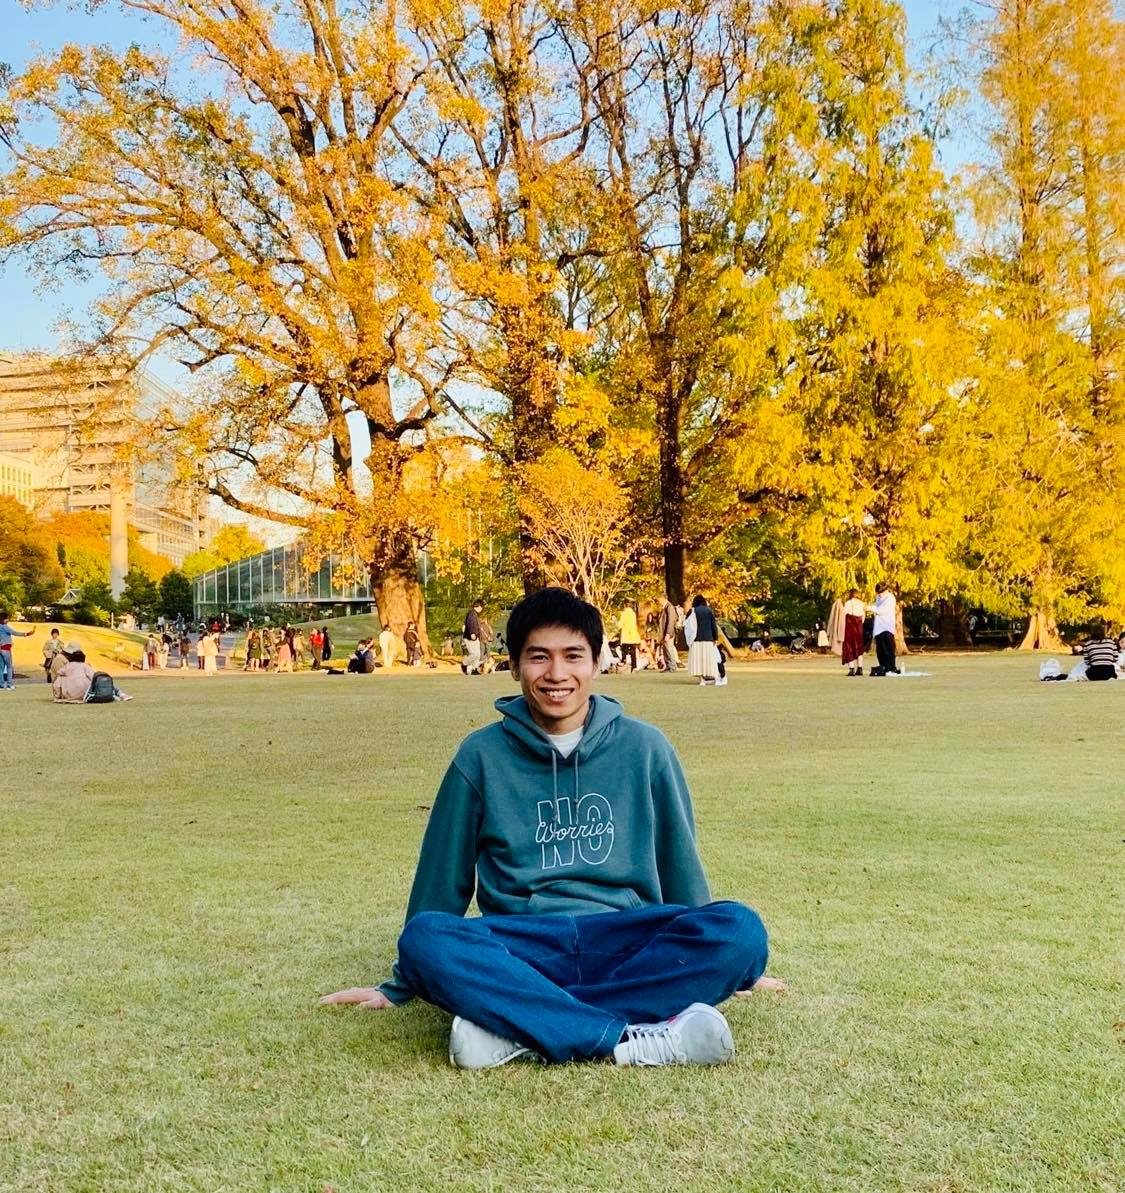
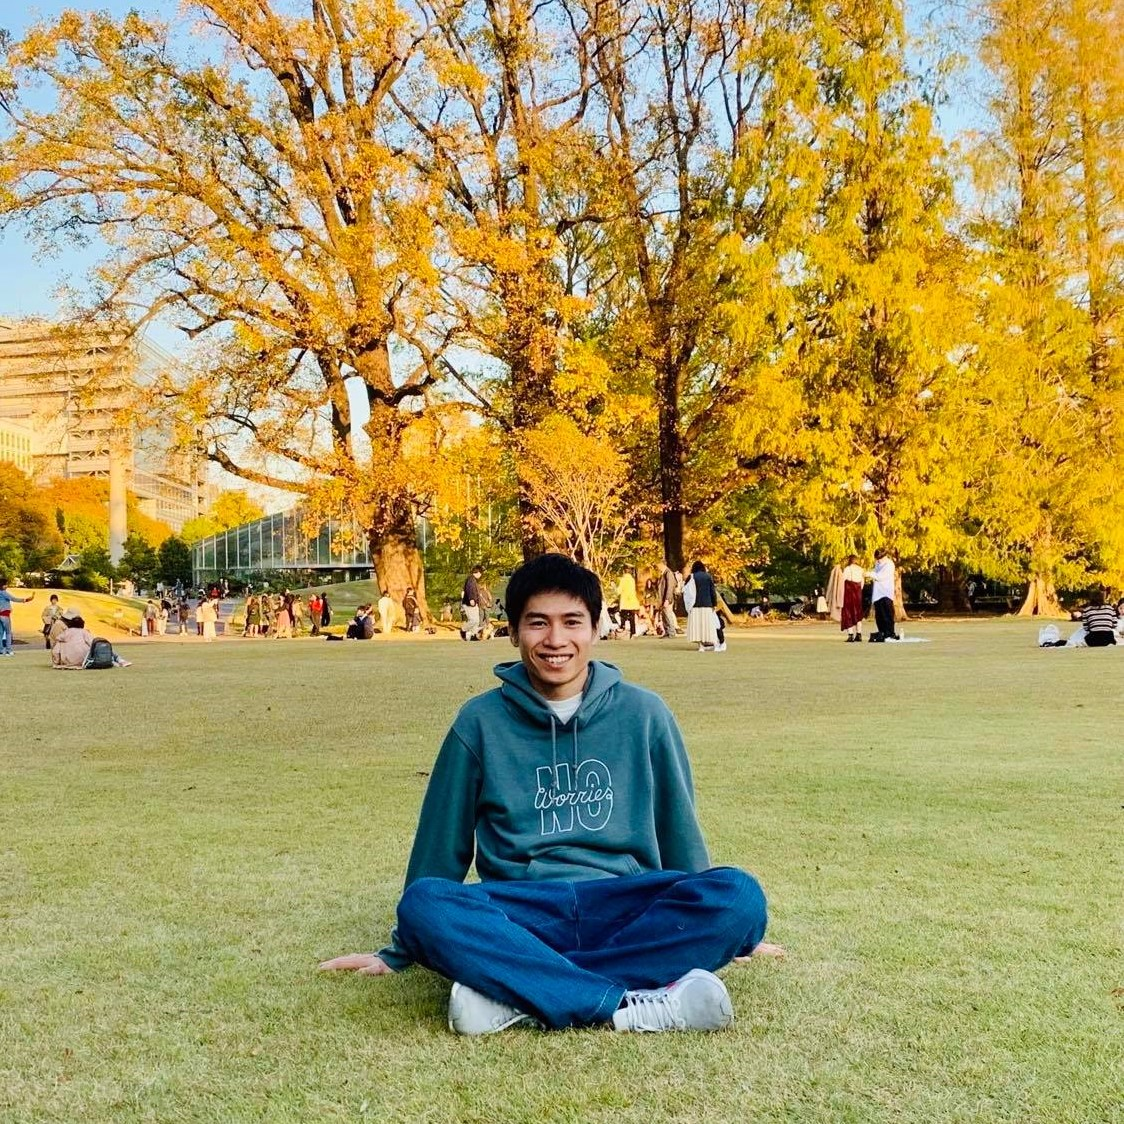
modified data ang Img in Card

diff --git a/src/data/ourTeam/AboutUs.js b/src/data/ourTeam/AboutUs.js
@@ -150,7 +150,7 @@ const AboutUsData = {
           alt: "yen",
         },
         description:
-          "郵政電信工芸 学院での専攻はITです。大学卒業して担当したプロジェクトは病院や銀行や電子情 報やイントラネットに関するものです。私はテスターとし て参加していました。プロジェクトの開発環境はジャーバ 、シェアポイント、アイオーエスやアンドロイドなどです 。調査、分析、テスト、管理を担当しました。将来、色々 な技術を学びたいです。",
+          "郵政電信工芸学院での専攻はITです。大学卒業して担当したプロジェクトは病院や銀行や電子情報やイントラネットに関するものです。私はテスターとして参加していました。プロジェクトの開発環境はジャーバ、シェアポイント、アイオーエスやアンドロイドなどです。調査、分析、テスト、管理を担当しました。将来、色々な技術を学びたいです。",
       },
       {
         title: "ハ・ラム ・ヴィエン",
@@ -159,7 +159,7 @@ const AboutUsData = {
           alt: "vien",
         },
         description:
-          "ダナン工科大学の電子通信学部を卒業した後組込システムに約二年間働きました。車メータのソフトに関する仕事、詳細設計・コーディング・テストなどの開発を経験しました。日本にてITの知識や経験をもっと伸ばしていきたいと思い、ワールド会社に入社して、今まで1年半働いています。日本に就職する目的は、技術・スキルを向上させて、日本語を勉強します。",
+          "ダナン工科大学の電子通信学部を卒業した後組込システムに約二年間働きました。車メータのソフトに関する仕事、詳細設計・コーディング・テストなどの開発を経験しました。日本にてITの知識や経験をもっと伸ばしていきたいと思い、ワールド会社に入社して、今まで1年半働いています。日本に就職の目的は、技術を向上させて日本語を勉強します。",
       },
       {
         title: "ヴー・アイン・ドゥック",
@@ -168,7 +168,7 @@ const AboutUsData = {
           alt: "duc",
         },
         description:
-          "山口短期大学情報メディア学部を卒業しました。出身はベトナムのハノイです。来日してからちょうど２年迎えました。経験が浅くて分からないことが多いかもしれませんがワルードチームでは”一人じゃない”で先輩たちは優しく教え頂いた本当に有り難い！ 顧客満足のため、良い品質、生産性を高めるようにすると考えています。 精一杯頑張りますので、宜しくお願い致します！",
+          "山口短期大学情報メディア学部を卒業しました。出身はベトナムのハノイです。来日してからちょうど２年迎えました。経験が浅くて分からないことが多いかもしれませんがワルードチームでは”一人じゃない”で先輩たちは優しく教え頂いた本当に有り難い！ 顧客満足のため、良い品質、生産性を高めるようにすると考えています。精一杯頑張ります！",
       },
     ],
   },

diff --git a/src/components/common/Card.css b/src/components/common/Card.css
@@ -1,22 +1,21 @@
 /*Iphone(480 x 640)*/
 @media screen and (min-width: 320px) {
   .card {
-    width: 70%;    
-    margin: 20px;
+    width: 80%;    
+    margin: auto;
   }
   .card__content {
     margin: 15px;
   }
   .card__content h3 {
-    font-size: 1.6em;
-    padding: 15px 0px;
+    font-size: 1.4em;
+    padding: 5px 0px;
   }
   .card__content p {
     font-size: 1.4em;
   }
-  .card__img img {
-    width: 100%;
-    height: 200px;
+  .card__img {
+    height: 220px;
   }
 }
 /*Ipad vertical(768 x 1024)*/
@@ -29,15 +28,14 @@
     margin: 20px;
   }
   .card__content h3 {
-    font-size: 2em;
-    padding: 15px 0px;
+    font-size: 1.6em;
+    padding: 10px 0px;
   }
   .card__content p {
     font-size: 1.6em;
   }
-  .card__img img {
-    width: 100%;
-    height: 300px;
+  .card__img {
+    height: 220px;
   }
 }
 /*Ipad horizontal(1024 x 768)*/
@@ -50,15 +48,14 @@
     margin: 20px;
   }
   .card__content h3 {
-    font-size: 2em;
+    font-size: 1.8em;
     padding: 15px 0px;
   }
   .card__content p {
-    font-size: 1.6em;
+    font-size: 1.7em;
   }
-  .card__img img {
-    width: 100%;
-    height: 350px;
+  .card__img{
+    height: 70%;
   }
 }
 /*Commom style for card*/
@@ -69,6 +66,7 @@
   box-shadow: 0 0 0 1px rgba(0, 0, 0, 0.2);
   transition: all 200ms ease-out;
   margin: 20px;
+  background-color: #eff9ff;
 }
 .card:hover {
   box-shadow: 0 0 6px rgb(35 173 255);
@@ -83,15 +81,10 @@
   text-align: justify;
   margin-left: auto;
   margin-right: auto;
-  color: #6e6e6e;
-  opacity: 1;
+  opacity: 0.9;
 }
 .card__img {
   box-shadow: 0 0 0 1px rgba(0, 0, 0, 0.2);
+  width: 100%;
 }
-.card__img img {
-  display: block;
-  margin-left: auto;
-  margin-right: auto;
-  object-fit: cover;
-}
+

diff --git a/src/components/common/Card.js b/src/components/common/Card.js
@@ -4,10 +4,8 @@ import Image from "./Image";
 
 export default function Card({ data }) {
   return (
-    <div className="card">
-      <div className="card__img">
-        <Image {...data.image} />
-      </div>
+    <div className="card">      
+      <Image className="card__img" {...data.image} />
       <div className="card__content">
         <h3>{data.title}</h3>
         <p>{data.description}</p>

diff --git a/src/components/sections/aboutUs/MemberIntro.css b/src/components/sections/aboutUs/MemberIntro.css
@@ -20,7 +20,7 @@
 
 /*style for common*/
 .memberIntro{
-  margin-bottom: 40px; 
+  margin: 30px; 
 }
 .memberIntro__items{
   display: flex;
